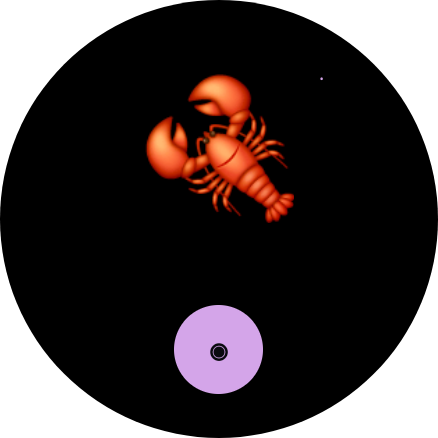
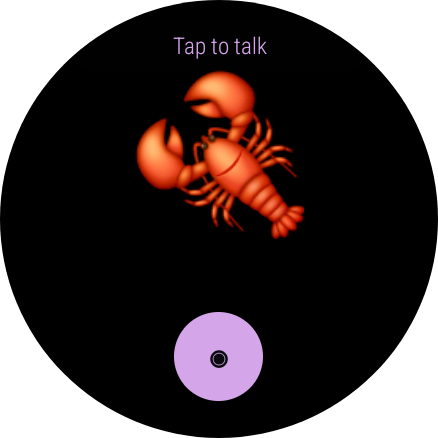
Release 1.0.0 UI polish and refreshed screenshots

diff --git a/app/src/main/java/com/thinkoff/clawwatch/MainActivity.kt b/app/src/main/java/com/thinkoff/clawwatch/MainActivity.kt
@@ -9,10 +9,12 @@ import android.os.BatteryManager
 import android.os.Bundle
 import android.os.SystemClock
 import android.util.Log
+import android.view.ViewConfiguration
 import android.view.MotionEvent
 import android.view.View
 import android.view.WindowManager
 import androidx.activity.result.contract.ActivityResultContracts
+import androidx.appcompat.app.AlertDialog
 import androidx.appcompat.app.AppCompatActivity
 import androidx.core.content.ContextCompat
 import androidx.lifecycle.lifecycleScope
@@ -41,6 +43,7 @@ class MainActivity : AppCompatActivity() {
         private const val AVATAR_SWIPE_THRESHOLD_DP = 24f
         private const val PREF_RAG_MODE = "rag_mode"
         private const val PREF_AVATAR_TYPE = "avatar_type"
+        private const val PREF_LIVE_TEXT_ENABLED = "live_text_enabled"
         private const val ACCENT_COLOR = 0xFFD4A5E9.toInt()
         private const val LOW_BATTERY_COLOR = 0xFF9CA3AF.toInt()
     }
@@ -67,6 +70,7 @@ class MainActivity : AppCompatActivity() {
     private var avatarSwipeStartX = 0f
     private var avatarSwipeStartY = 0f
     private var avatarSwipeActive = false
+    private var avatarTouchStartAt = 0L
 
     private val requestMic = registerForActivityResult(
         ActivityResultContracts.RequestPermission()
@@ -294,6 +298,7 @@ class MainActivity : AppCompatActivity() {
                 MotionEvent.ACTION_DOWN -> {
                     avatarSwipeStartX = event.x
                     avatarSwipeStartY = event.y
+                    avatarTouchStartAt = SystemClock.elapsedRealtime()
                     avatarSwipeActive = true
                     view.parent?.requestDisallowInterceptTouchEvent(true)
                     true
@@ -312,6 +317,14 @@ class MainActivity : AppCompatActivity() {
                     avatarSwipeActive = false
                     val dx = event.x - avatarSwipeStartX
                     val dy = event.y - avatarSwipeStartY
+                    val heldLong = (SystemClock.elapsedRealtime() - avatarTouchStartAt) >=
+                        ViewConfiguration.getLongPressTimeout()
+                    val mostlyStill = abs(dx) < threshold / 2 && abs(dy) < threshold / 2
+                    if (heldLong && mostlyStill) {
+                        showOptionsMenu()
+                        view.parent?.requestDisallowInterceptTouchEvent(false)
+                        return@setOnTouchListener true
+                    }
                     if (abs(dx) > threshold && abs(dx) > abs(dy) * 1.2f) {
                         if (dx > 0) finish() else nextAvatarType()
                     }
@@ -326,6 +339,39 @@ class MainActivity : AppCompatActivity() {
                 else -> true
             }
         }
+    }
+
+    private fun isLiveTextEnabled(): Boolean =
+        prefs.getBoolean(PREF_LIVE_TEXT_ENABLED, false)
+
+    private fun showOptionsMenu() {
+        val options = arrayOf("Demo live text: Off", "Demo live text: On")
+        val selected = if (isLiveTextEnabled()) 1 else 0
+        AlertDialog.Builder(this)
+            .setTitle("Options")
+            .setSingleChoiceItems(options, selected) { dialog, which ->
+                prefs.edit().putBoolean(PREF_LIVE_TEXT_ENABLED, which == 1).apply()
+                applyLiveTextVisibility()
+                if (which == 1) {
+                    setStatus(when (state) {
+                        State.IDLE -> "Tap to talk"
+                        State.LISTENING -> "Listening…"
+                        State.THINKING -> "Thinking…"
+                        State.SEARCHING -> "Searching…"
+                        State.SPEAKING -> "Speaking…"
+                        State.ERROR -> "Error"
+                        State.SETUP -> "API key missing"
+                    })
+                }
+                dialog.dismiss()
+            }
+            .setNegativeButton("Cancel", null)
+            .show()
+    }
+
+    private fun applyLiveTextVisibility() {
+        val show = isLiveTextEnabled() && state != State.SETUP
+        binding.statusText.visibility = if (show) View.VISIBLE else View.GONE
     }
 
     private fun avatarTypeKey(type: AvatarType): String = when (type) {
@@ -506,6 +552,7 @@ class MainActivity : AppCompatActivity() {
             binding.splashPanel.visibility = View.GONE
             binding.setupPanel.visibility  = if (s == State.SETUP)    View.VISIBLE else View.GONE
             binding.mainPanel.visibility   = if (s != State.SETUP)    View.VISIBLE else View.GONE
+            applyLiveTextVisibility()
             updateAvatar(s)
             updateActionIndicator(s)
             binding.fab.contentDescription = when (s) {
@@ -556,7 +603,14 @@ class MainActivity : AppCompatActivity() {
     private fun formatStatus(msg: String): String =
         msg.trim().replace(Regex("\\s+"), " ").take(160)
 
-    private fun setStatus(msg: String) = runOnUiThread { binding.statusText.text = formatStatus(msg) }
+    private fun setStatus(msg: String) = runOnUiThread {
+        if (!isLiveTextEnabled() || state == State.SETUP) {
+            binding.statusText.visibility = View.GONE
+            return@runOnUiThread
+        }
+        binding.statusText.visibility = View.VISIBLE
+        binding.statusText.text = formatStatus(msg)
+    }
 
     override fun onDestroy() {
         super.onDestroy()
